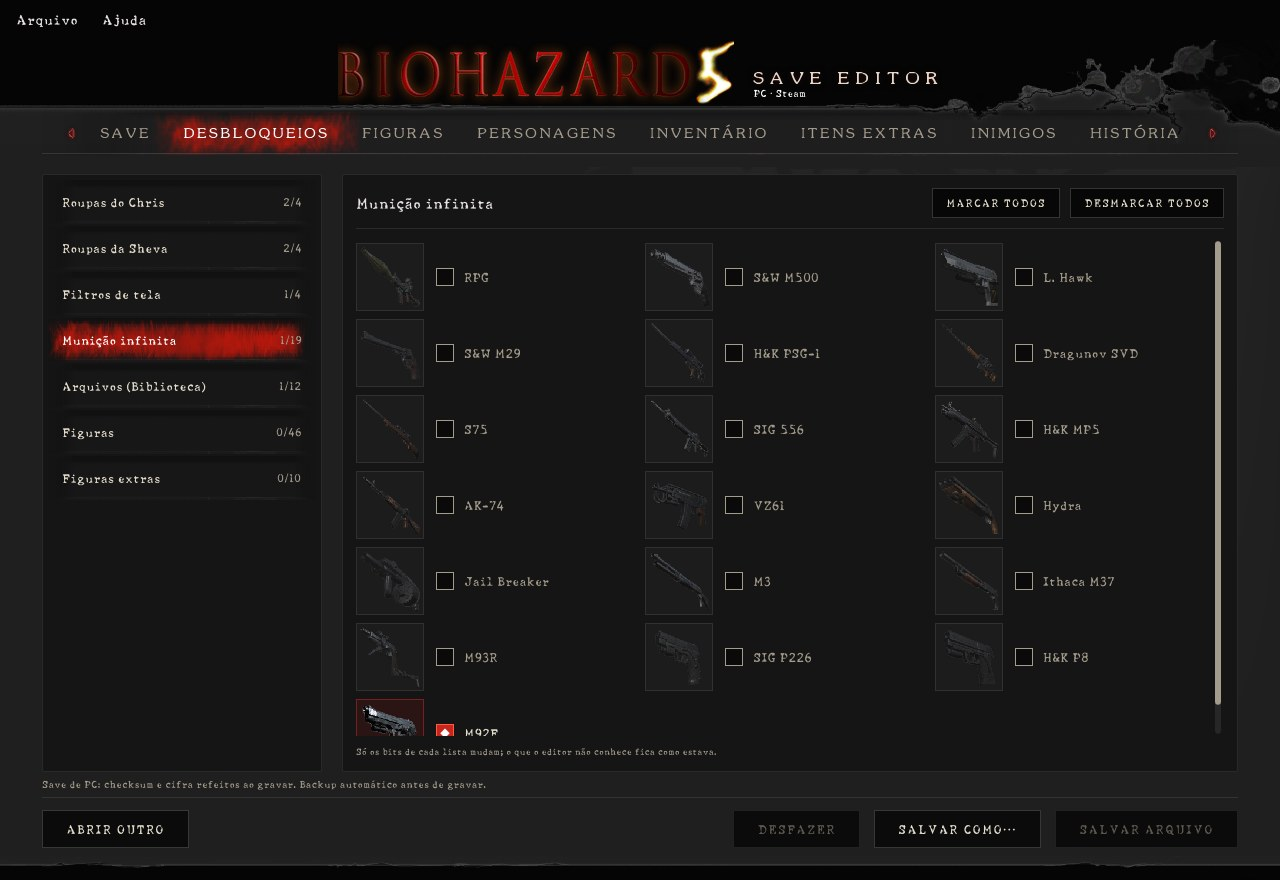
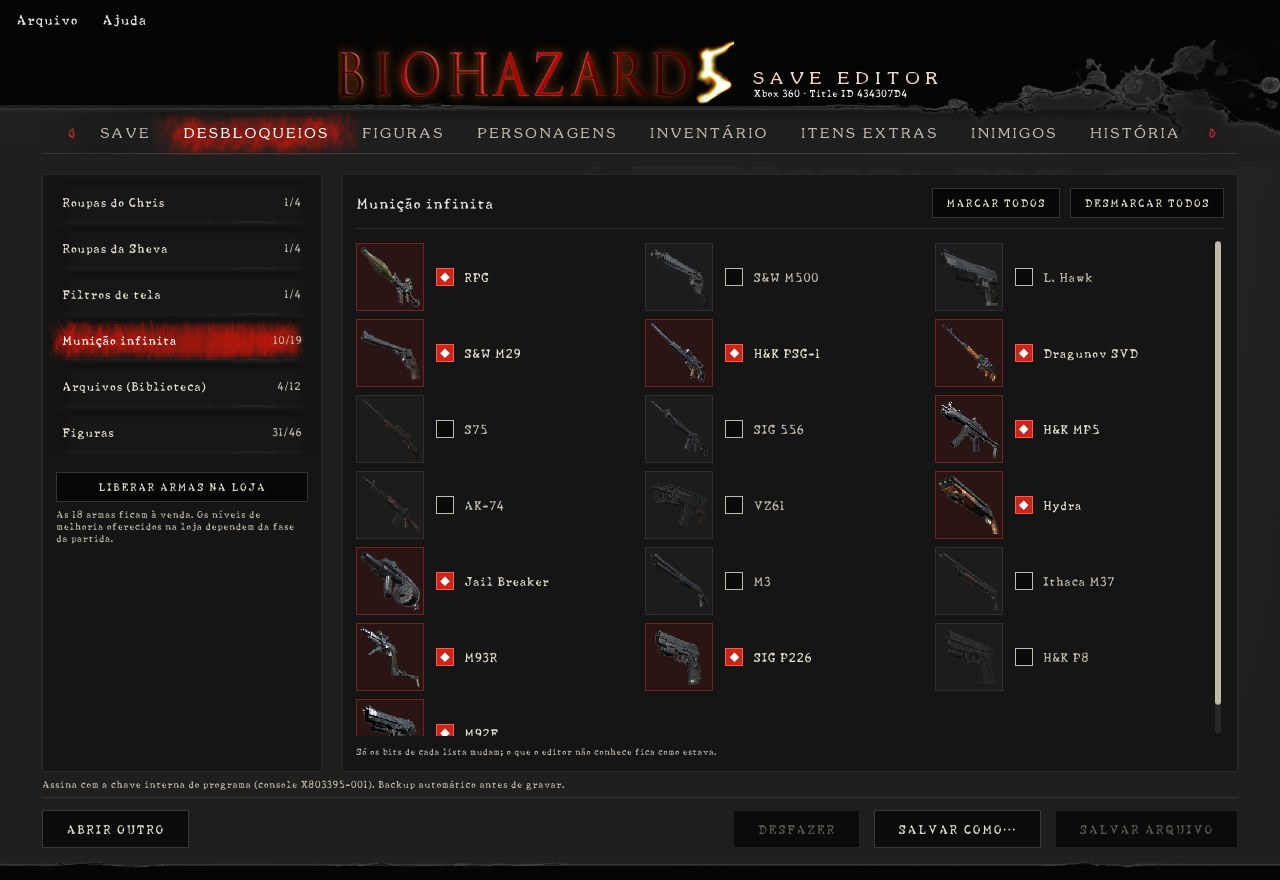
Página, licença e prints em dia

diff --git a/CHANGELOG.md b/CHANGELOG.md
@@ -12,7 +12,57 @@ Primeira versão.
 ### Correções depois do lançamento
 As correções entram na própria 1.0.0 (o download da release é atualizado).
 
+- **11/11 — Leitura das telas:** os nomes dos itens não são mais cortados:
+  até três linhas no baú e na escolha do item, e até duas nos slots dos
+  personagens (a quantidade passou para a linha do número do slot). No baú,
+  a quantidade tem um fundo escuro para ser lida sobre ícones claros; os textos de apoio ficaram mais claros; e uma
+  arma descarregada, como o lança-granadas, não mostra mais "× 0". Nas
+  melhorias, as estrelas (Crítico, Perfuração, Alcance) ficaram maiores e o
+  nível aparece em número à direita.
+- **11/11 — Licenças:** o programa passa a vir com o arquivo
+  `AVISOS-DE-TERCEIROS.txt`, com a lista das bibliotecas de código aberto
+  usadas e os textos de licença delas; a janela Sobre cita o arquivo. A
+  licença de uso do programa (freeware) aponta para ele.
+- **11/11 — Restaurar backup:** no menu Arquivo, "Restaurar backup…" abre
+  a pasta das cópias do save aberto; a escolhida toma o lugar do save, depois
+  de uma confirmação. O save que estava lá também é guardado antes, e um
+  arquivo que não é save do jogo é recusado. Os backups antigos servem.
+- **11/11 — Arquivo alterado por fora:** se outro programa (ou o jogo)
+  gravar no save depois que ele foi aberto no editor, salvar não escreve
+  mais por cima sem avisar: o editor pergunta antes. Confirmando, grava o
+  que está na tela e guarda nos backups o arquivo como estava no disco.
+- **11/11 — Backups:** cada perfil do Xbox e cada conta do PC tem agora a
+  sua pasta dentro de `backups/`, com a data e a hora no nome do arquivo, e
+  ficam as 10 cópias mais novas de cada save (eram 20, sem separar por
+  dono). Os backups feitos antes continuam onde estão e nunca são apagados.
+- **11/11 — Abrir:** um arquivo com mais de 4 MB é recusado em vez de ser
+  lido inteiro para a memória. Sem save do RE5 na Steam, o diálogo de abrir
+  começa na pasta do save do Xbox em Documentos, ou na pasta pessoal.
+- **11/11 — Keyvault:** um `console/kv.bin` cujo certificado não é o da
+  chave é recusado ("keyvault inválido") em vez de assinar um save que o
+  console não aceitaria.
+- **10/11 — Arma equipada:** no painel de um slot do Chris ou da Sheva, o
+  botão EQUIPAR põe a marca E na arma (a arma com que o personagem começa o
+  capítulo), e o cartão do slot mostra o E. Testado no jogo da Steam.
+- **10/11 — Loja do jogo:** na aba Desbloqueios, o botão LIBERAR ARMAS NA LOJA
+  põe as 18 armas à venda. Só liga os bits das armas e preserva os outros.
+- **10/11 — Backups:** ficam os 20 mais recentes de cada save; duas gravações
+  no mesmo segundo não apagam mais o backup anterior.
+- **10/11 — Correções:** a aba Figuras volta às Figuras ao abrir um save de
+  Xbox com as extras na tela; um nome de arquivo antigo (Latin-1, no Linux)
+  não fecha mais o programa; um pacote do Xbox corrompido dá erro em vez de
+  usar memória sem limite; o arquivo 1 da Biblioteca tem o mesmo nome nas
+  abas Desbloqueios e História.
+- **10/11 — Removido:** a ferramenta `extrair-kv` saiu do projeto. O `kv.bin`
+  continua opcional, na pasta `console/`.
 - **04/11 — Windows:** o `.exe` fechava ao abrir no Windows, por causa de uma proteção da compilação (Control Flow Guard). Sem ela, abre normalmente. Testado no Windows 10.
+- **03/11 — Baú com o tamanho certo (Xbox 360 e PC):** o baú do jogo tem 54
+  itens e 50 tesouros, mas o editor mostrava 84 espaços no Xbox e 74 no PC como
+  se fossem todos iguais. Os tesouros apareciam pela metade e os últimos
+  espaços eram dados da partida, como a dificuldade e a fase. Agora o editor
+  separa os 54 itens dos 50 tesouros, com uma aba própria e o botão "Colocar
+  todos", e não grava mais nos dados da partida. A aba Inventário não oferece
+  mais tesouro como item.
 - **04/11 — Melhorias das armas:** nos slots e no inventário, o botão Melhorar
   mostra Potência, Recarregamento, Capacidade e as estrelas de cada arma, só até
   o limite dela. Trocar ou esvaziar um item agora zera os níveis, para a arma
@@ -58,10 +108,10 @@ As correções entram na própria 1.0.0 (o download da release é atualizado).
 - **Gold / Money, Exchange Points e data do save.**
 - **Desbloqueios:** roupas do Chris e da Sheva, filtros de tela, munição
   infinita das 19 armas (com o ícone de cada uma), os 12 arquivos da
-  Biblioteca e as 45 Figuras. Só os bits de cada lista são alterados.
+  Biblioteca e as 46 Figuras. Só os bits de cada lista são alterados.
 - **Personagens:** os 9 slots do Chris e da Sheva, oferecendo só o que o jogo
   aceita em cada slot.
-- **Inventário (baú):** 84 espaços no Xbox e 74 no PC, em grade de ícones como
+- **Inventário (baú):** 54 itens e 50 tesouros, em grade de ícones como
   no jogo, com filtro por categoria.
 - **Só no Xbox:** perfil (XUID) com a gamertag, Device ID ("Copiar de outro
   save…") e nome do save no dashboard (RENOMEAR, com DESFAZER).
@@ -71,7 +121,8 @@ As correções entram na própria 1.0.0 (o download da release é atualizado).
 ### Assinatura do Xbox 360
 - O save sai sempre assinado e pronto para o console. Ordem das chaves:
   1. `console/kv.bin` ao lado do programa (o keyvault do seu console);
-  2. a chave interna do programa, sempre disponível.
+  2. o kv.bin embutido numa compilação pessoal GOLD (`--features kv-embutido`);
+  3. a chave interna do programa, sempre disponível.
 - Checksum do jogo, hashes SHA-1 do pacote e assinatura recalculados e
   conferidos a cada gravação.
 
@@ -100,11 +151,11 @@ As correções entram na própria 1.0.0 (o download da release é atualizado).
 - Itens que travam o jogo (chaves das fases) não são oferecidos; conteúdo de
   DLC é só para consulta.
 - O perfil do Xbox é apenas lido; o editor guarda somente "XUID → gamertag".
-- Checagem de estouro de inteiros, RELRO
-  completo no Linux e Control Flow Guard no Windows.
+- Nenhum `unsafe` no código do editor, checagem de estouro de inteiros e RELRO
+  completo no Linux.
 
 ### Validação
-- 46 testes automáticos no editor e 68 no `extrair-kv`.
+- 58 testes automáticos no editor e 68 no `extrair-kv`.
 - **No console:** saves editados e reassinados com a chave interna carregam
   normalmente no Xbox 360, com os itens no jogo.
 - **No PC:** num save real da Steam, os valores editados aparecem no jogo, e

diff --git a/README.md b/README.md
@@ -39,6 +39,8 @@ nem instalador.
 | Figuras extras (as 10 do menu Extra Figures) | — | ✓ |
 | Slots do Chris e da Sheva | ✓ | ✓ |
 | Melhorias das 18 armas, até o limite de cada uma | ✓ | ✓ |
+| Arma equipada (a marca E) do Chris e da Sheva | ✓ | ✓ |
+| Liberar as 18 armas na loja do jogo | ✓ | ✓ |
 | Inventário do baú | ✓ 54 espaços | ✓ 54 espaços |
 | Tesouros do baú | ✓ os 50 do jogo | ✓ os 50 do jogo |
 | Perfil (XUID), Device ID e gamertag | ✓ | — |
@@ -97,19 +99,21 @@ Baixe a versão mais recente na página de
 |---|---|
 | `BIOHAZARD5-SAVE-EDITOR-<versão>-windows-x86_64.zip` | Windows 10 e 11 (64 bits) |
 | `BIOHAZARD5-SAVE-EDITOR-<versão>-linux-x86_64.tar.gz` | Linux x86_64 |
-| `extrair-kv-windows-x86_64.exe` / `extrair-kv-linux-x86_64` | opcional: tira o `kv.bin` da cópia da NAND ([guia](docs/EXTRAIR-KV.md)) |
 | `SHA256SUMS.txt` | hashes para conferir os downloads |
 
-Descompacte a pasta inteira. Não é preciso instalar nada; no Windows, o
-programa não depende do Visual C++ Redistributable.
+Descompacte a pasta inteira. No Windows não é preciso instalar nada, e o
+programa não depende do Visual C++ Redistributable. No Linux, o programa usa
+as bibliotecas GTK 3 e fontconfig, que já vêm nas distribuições com área de
+trabalho.
 
 ```
 BIOHAZARD 5 SAVE EDITOR/
 ├── BIOHAZARD 5 SAVE EDITOR.exe   (Linux: biohazard5-save-editor)
 ├── LEIA-ME.txt                   guia rápido
 ├── LICENSE
+├── AVISOS-DE-TERCEIROS.txt       bibliotecas de código aberto usadas e as licenças delas
 ├── console/                      lugar opcional do kv.bin do seu console
-└── backups/                      cópia do save antes de cada gravação
+└── backups/                      cópias do save antes de cada gravação, por perfil ou conta
 ```
 
 ---
@@ -138,11 +142,12 @@ O save do Xbox 360 é um pacote assinado. O editor sempre grava o pacote
 assinado e pronto para o console, escolhendo a chave nesta ordem:
 
 1. `console/kv.bin` ao lado do programa (o keyvault do seu console);
-2. a **chave interna** do programa, sempre disponível.
+2. o keyvault embutido, numa compilação pessoal GOLD (ver
+   [Compilação](#versão-gold-uso-pessoal));
+3. a **chave interna** do programa, sempre disponível.
 
 O `kv.bin` é **opcional**. Ele é a identidade do seu console: não
-compartilhe. Para tirá-lo da cópia da NAND, veja
-[docs/EXTRAIR-KV.md](docs/EXTRAIR-KV.md).
+compartilhe.
 
 ---
 
@@ -151,8 +156,13 @@ compartilhe. Para tirá-lo da cópia da NAND, veja
 - **Gravação segura:** o save é gravado numa cópia temporária, lido de volta e
   conferido; só então substitui o original. Se algo falhar, o original fica
   intacto.
-- **Backup automático** do arquivo anterior na pasta `backups/` antes de cada
-  gravação.
+- **Backup automático** do arquivo anterior na pasta `backups/`, numa pasta
+  para cada perfil do Xbox ou conta do PC, com a data e a hora no nome. Ficam
+  as 10 cópias mais novas de cada save.
+- **Restaurar backup:** no menu Arquivo, "Restaurar backup…" põe uma dessas
+  cópias de volta no lugar; o save substituído também é guardado.
+- **Arquivo alterado por fora:** se outro programa (ou o jogo) gravar no save
+  depois que ele foi aberto, o editor pergunta antes de gravar por cima.
 - **Conferência completa** depois de gravar: checksum do jogo, hashes SHA-1 do
   pacote e assinatura.
 - **Validação na abertura:** só aceita saves do Resident Evil 5 (Title ID
@@ -162,8 +172,8 @@ compartilhe. Para tirá-lo da cópia da NAND, veja
   conteúdo de DLC é só para consulta.
 - **Privacidade:** o perfil do Xbox é apenas lido; o editor guarda somente a
   gamertag associada ao XUID.
-- **Executável endurecido:** checagem de estouro de inteiros, RELRO completo
-  no Linux e Control Flow Guard no Windows.
+- **Compilação endurecida:** nenhum `unsafe` no código do editor, checagem de
+  estouro de inteiros e RELRO completo no Linux.
 
 ---
 
@@ -191,9 +201,11 @@ com um modelo para cada caso. Para falhas de segurança, veja o
 
 ## Licença
 
-Programa **gratuito (freeware)**, de código fechado: pode usar à vontade, mas
-não pode vender, republicar em outros sites nem modificar. Os termos completos
-estão no [LICENSE](LICENSE).
+Freeware de código fechado: o programa é gratuito para uso pessoal, e o
+código-fonte não é distribuído. Os termos estão no [LICENSE](LICENSE).
+
+O programa usa bibliotecas de código aberto; os avisos de licença delas vão
+junto do programa, no arquivo `AVISOS-DE-TERCEIROS.txt`.
 
 A interface usa o [Slint](https://slint.dev) sob a Slint Royalty-free License;
 o selo *Made with Slint* aparece na janela "Sobre", como a licença exige.

diff --git a/SECURITY.md b/SECURITY.md
@@ -18,7 +18,12 @@ Conte o que acontece, como repetir e, se possível, um arquivo de exemplo
 
 - Não acessa a internet.
 - Lê e grava só o save que você abrir. Antes de gravar, guarda uma cópia na
-  pasta `backups`.
+  pasta `backups` do programa; se ela não aceitar gravação, em
+  `%APPDATA%\re5-save-editor-360-pc\backups` (Windows) ou
+  `~/.local/share/re5-save-editor-360-pc/backups` (Linux).
+- No Xbox, se o perfil do dono do save estiver na pasta padrão ao lado dele,
+  lê só a gamertag e guarda o par XUID → gamertag em `gamertags.json`, na
+  mesma pasta de dados.
 - O `kv.bin` (opcional) fica só na pasta `console` do programa e serve apenas
   para assinar o save com a chave do seu console. Ele nunca é copiado para
   outro lugar.
